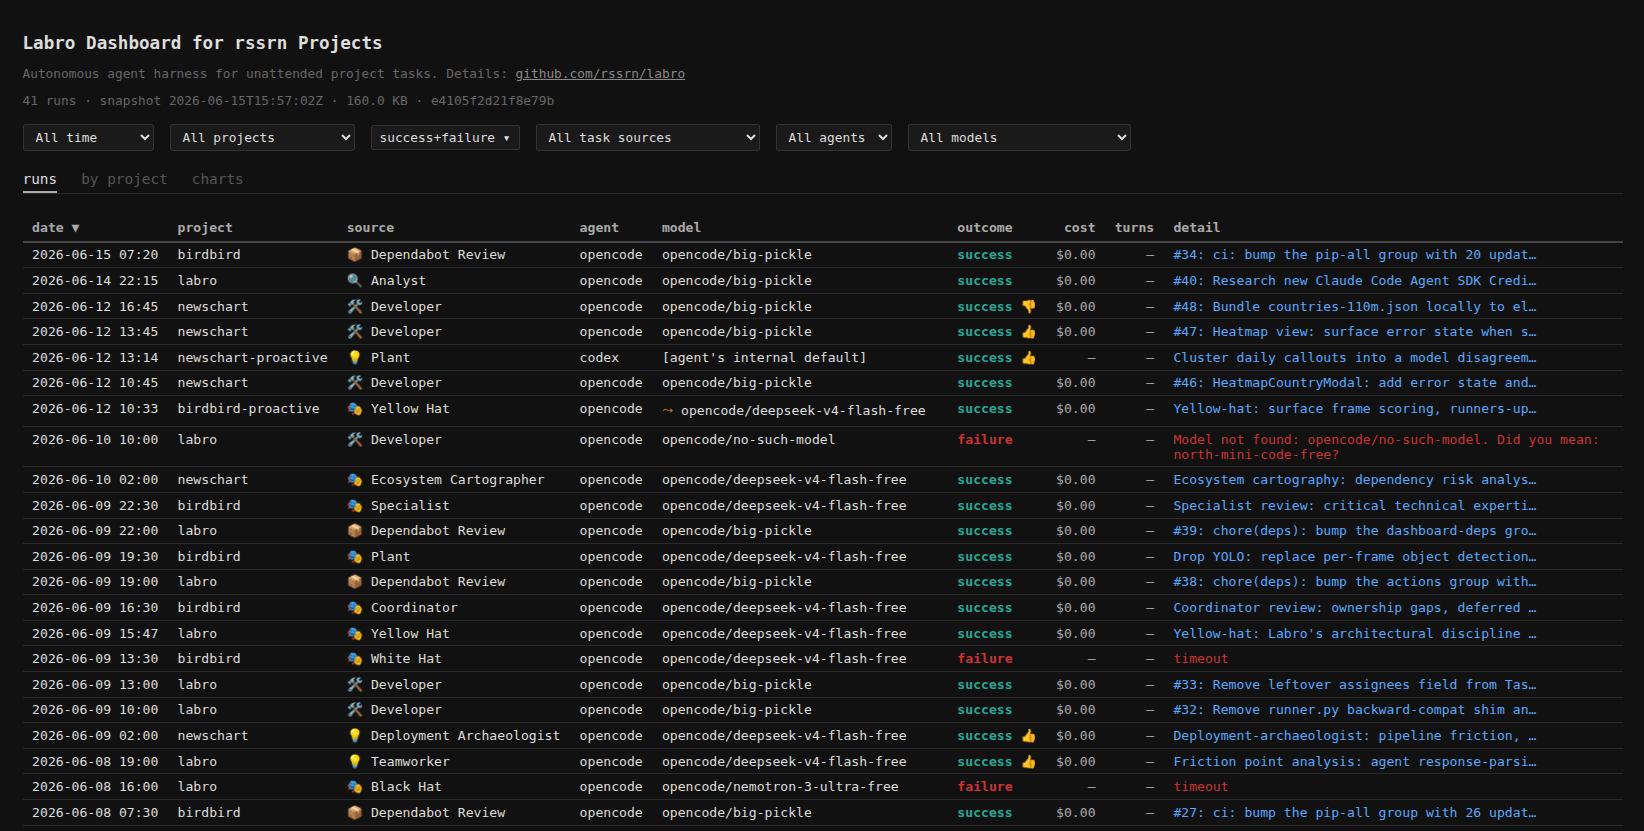
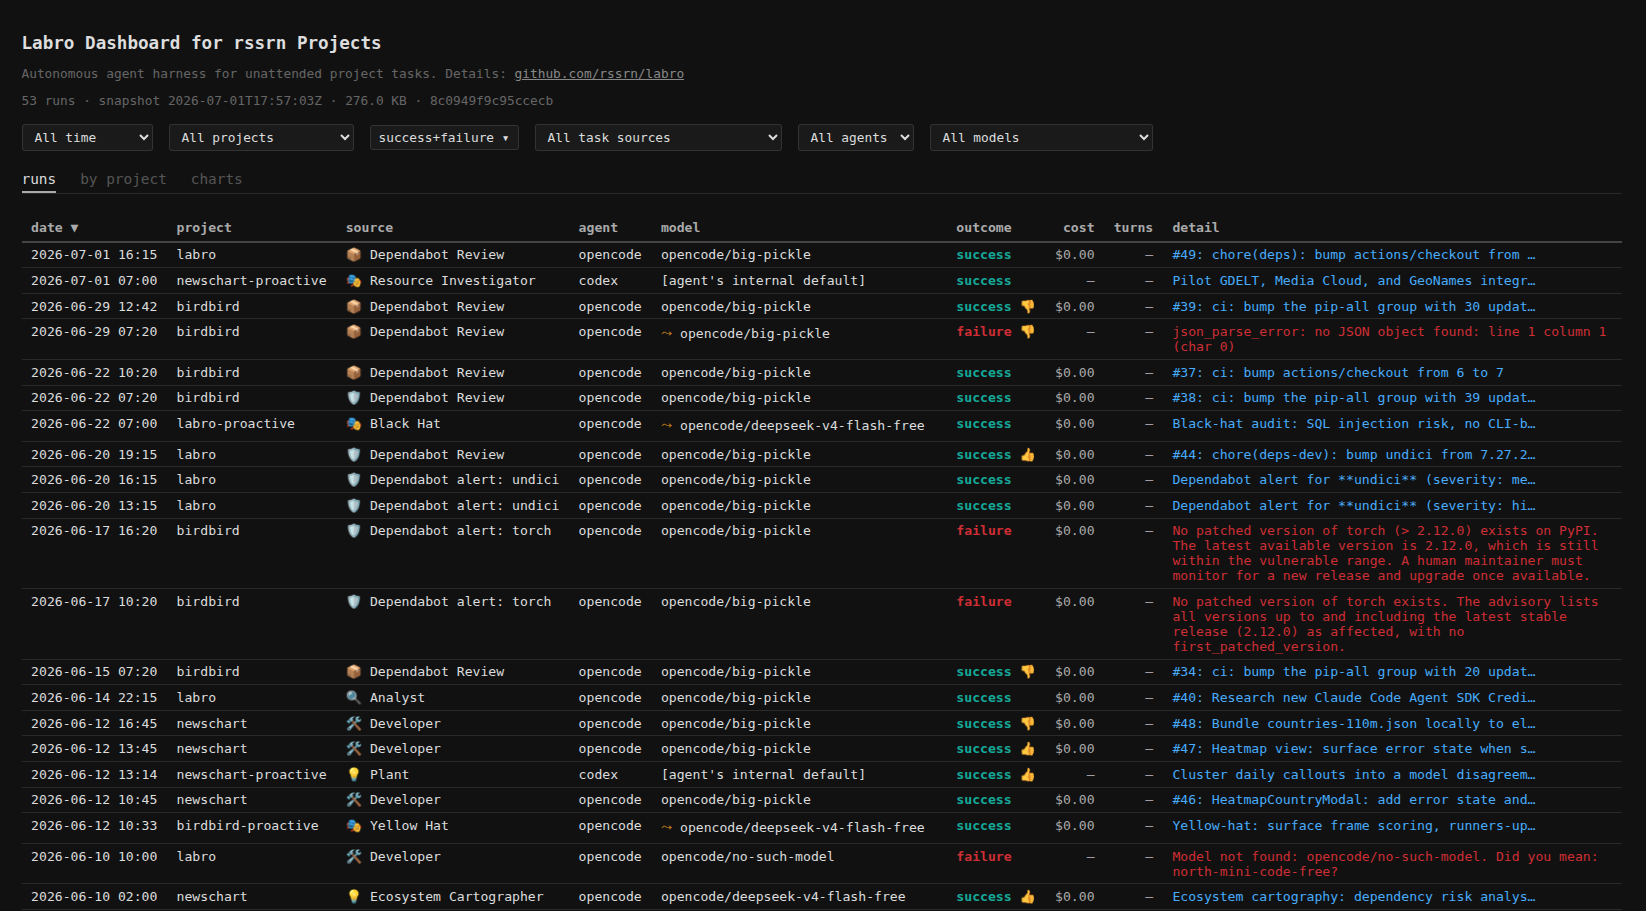
Replace birdbird, Labro, and NewsChart screenshots with new captures

Changed region(s): [[0.0, 0.0301, 0.9927, 1.0], [0.4653, 0.1203, 0.6204, 0.1805]]

diff --git a/index.md b/index.md
@@ -7,7 +7,7 @@ Samples of personal projects for [Ross Arnold](https://www.linkedin.com/in/rarno
 
 <div class="project-card is-live">
   <div class="project-card-image">
-    <img src="./labro-dashboard.png" alt="Screenshot from Labro: full dashboard table view showing runs with agent, model, cost, turns, and summary columns" data-lightbox-group="labro">
+    <img src="./labro-dashboard.png" alt="Screenshot from Labro: full dashboard table view showing runs with project, source, agent, model, cost, turns, and outcome columns" data-lightbox-group="labro">
   </div>
   <div class="project-card-body">
     <div class="project-card-header">
@@ -20,7 +20,9 @@ Samples of personal projects for [Ross Arnold](https://www.linkedin.com/in/rarno
     <p class="project-status">Live · AI coding agent orchestrator</p>
     <p class="project-description">Runs AI coding agents on a schedule against GitHub Issues, then records the outcome directly on the issue. Configurable triggers, prompts, and permissions.</p>
   </div>
-  <img src="./labro-mobile.png" alt="Screenshot from Labro: mobile layout showing recent agent tasks with project, source, and outcome indicators" data-lightbox-group="labro" hidden>
+  <img src="./labro-mobile.png" alt="Screenshot from Labro: mobile layout showing recent agent runs with project, source, and outcome indicators" data-lightbox-group="labro" hidden>
+  <img src="./labro-run-detail.png" alt="Screenshot from Labro: single run detail panel showing agent summary, actions taken, and token usage" data-lightbox-group="labro" hidden>
+  <img src="./labro-charts.png" alt="Screenshot from Labro: charts view showing daily outcomes and breakdowns by model, task source, and perspective" data-lightbox-group="labro" hidden>
 </div>
 
 <div class="project-card is-live">
@@ -38,12 +40,14 @@ Samples of personal projects for [Ross Arnold](https://www.linkedin.com/in/rarno
     <p class="project-status">Live · AI news coverage mapped by model</p>
     <p class="project-description">Several leading AI models are asked daily for the top three international news stories, plotted on a world map so you can compare editorial judgement across models.</p>
   </div>
-  <img src="./newschart-timeline.png" alt="Screenshot from NewsChart: model selector and timeline view" data-lightbox-group="newschart" hidden>
+  <img src="./newschart-mobile.png" alt="Screenshot from NewsChart: mobile layout showing map, date carousel, and consensus story list" data-lightbox-group="newschart" hidden>
+  <img src="./newschart-country-detail.png" alt="Screenshot from NewsChart: country detail popup comparing which story each model picked for France" data-lightbox-group="newschart" hidden>
+  <img src="./newschart-coverage-map.png" alt="Screenshot from NewsChart: coverage map heatmap showing story volume by country for a single model" data-lightbox-group="newschart" hidden>
 </div>
 
 <div class="project-card is-live">
   <div class="project-card-image">
-    <img src="./birdbird-video.png" alt="Screenshot from birdbird: images and video player showing garden birds" data-lightbox-group="birdbird">
+    <img src="./birdbird-highlights.png" alt="Screenshot from birdbird: highlights video player with detected species list alongside" data-lightbox-group="birdbird">
   </div>
   <div class="project-card-body">
     <div class="project-card-header">
@@ -56,7 +60,10 @@ Samples of personal projects for [Ross Arnold](https://www.linkedin.com/in/rarno
     <p class="project-status">Live · Bird cam with ML detection</p>
     <p class="project-description">Processes motion-captured clips from a bird feeder camera and presents the results on the web, including species detection from both audio and video.</p>
   </div>
-  <img src="./birdbird-histogram.png" alt="Screenshot from birdbird: histogram of bird vocalisations detected, each with confidence %" data-lightbox-group="birdbird" hidden>
+  <img src="./birdbird-video-stats.png" alt="Screenshot from birdbird: bar chart of bird species detected from video, each with confidence %" data-lightbox-group="birdbird" hidden>
+  <img src="./birdbird-audio-stats.png" alt="Screenshot from birdbird: bar chart of bird vocalisations detected from audio, each with confidence %" data-lightbox-group="birdbird" hidden>
+  <img src="./birdbird-pipeline.png" alt="Diagram from birdbird: how it works, showing the parallel video and audio processing pipelines" data-lightbox-group="birdbird" hidden>
+  <img src="./birdbird-credits.png" alt="Screenshot from birdbird: credits and acknowledgments page listing models, frameworks, and licenses used" data-lightbox-group="birdbird" hidden>
 </div>
 
 <div class="project-card">

diff --git a/labro.md b/labro.md
@@ -2,8 +2,10 @@
 title: Labro
 ---
 > [!aside-left]
-> [![[labro-mobile.png|Screenshot from Labro: mobile layout showing recent agent tasks with project, source, and outcome indicators]]](https://labro.rossarnold.uk/)
-> [![[labro-dashboard.png|Screenshot from Labro: full dashboard table view showing runs with agent, model, cost, turns, and summary columns]]](https://labro.rossarnold.uk/)
+> [![[labro-mobile.png|Screenshot from Labro: mobile layout showing recent agent runs with project, source, and outcome indicators]]](https://labro.rossarnold.uk/)
+> [![[labro-dashboard.png|Screenshot from Labro: full dashboard table view showing runs with project, source, agent, model, cost, turns, and outcome columns]]](https://labro.rossarnold.uk/)
+> [![[labro-run-detail.png|Screenshot from Labro: single run detail panel showing agent summary, actions taken, and token usage]]](https://labro.rossarnold.uk/)
+> [![[labro-charts.png|Screenshot from Labro: charts view showing daily outcomes and breakdowns by model, task source, and perspective]]](https://labro.rossarnold.uk/)
 
 >### What?
 > An orchestrator that runs AI coding agents on a schedule - picking or raising GitHub 

diff --git a/birdbird.md b/birdbird.md
@@ -2,8 +2,11 @@
 title: birdbird
 ---
 > [!aside-left]
-> [![[birdbird-histogram.png|Screenshot from birdbird: histogram of bird vocalisations detected, each with confidence %]]](https://birdbird.rossarnold.uk/)
-> [![[birdbird-video.png|Screenshot from birdbird: images and video player showing garden birds]]](https://birdbird.rossarnold.uk/)
+> [![[birdbird-highlights.png|Screenshot from birdbird: highlights video player with detected species list alongside]]](https://birdbird.rossarnold.uk/)
+> [![[birdbird-video-stats.png|Screenshot from birdbird: bar chart of bird species detected from video, each with confidence %]]](https://birdbird.rossarnold.uk/)
+> [![[birdbird-audio-stats.png|Screenshot from birdbird: bar chart of bird vocalisations detected from audio, each with confidence %]]](https://birdbird.rossarnold.uk/)
+> [![[birdbird-pipeline.png|Diagram from birdbird: how it works, showing the parallel video and audio processing pipelines]]](https://birdbird.rossarnold.uk/)
+> [![[birdbird-credits.png|Screenshot from birdbird: credits and acknowledgments page listing models, frameworks, and licenses used]]](https://birdbird.rossarnold.uk/)
 
 >
 >### What?

diff --git a/newschart.md b/newschart.md
@@ -2,8 +2,10 @@
 title: NewsChart
 ---
 > [!aside-left]
-> [![[newschart-consensus.png]]](https://newschart.rossarnold.uk/)
-> [![[newschart-timeline.png]]](https://newschart.rossarnold.uk/)
+> [![[newschart-consensus.png|Screenshot from NewsChart: consensus map view showing top international news stories plotted by model]]](https://newschart.rossarnold.uk/)
+> [![[newschart-country-detail.png|Screenshot from NewsChart: country detail popup comparing which story each model picked for France]]](https://newschart.rossarnold.uk/)
+> [![[newschart-coverage-map.png|Screenshot from NewsChart: coverage map heatmap showing story volume by country for a single model]]](https://newschart.rossarnold.uk/)
+> [![[newschart-mobile.png|Screenshot from NewsChart: mobile layout showing map, date carousel, and consensus story list]]](https://newschart.rossarnold.uk/)
 
 
 >### What?
